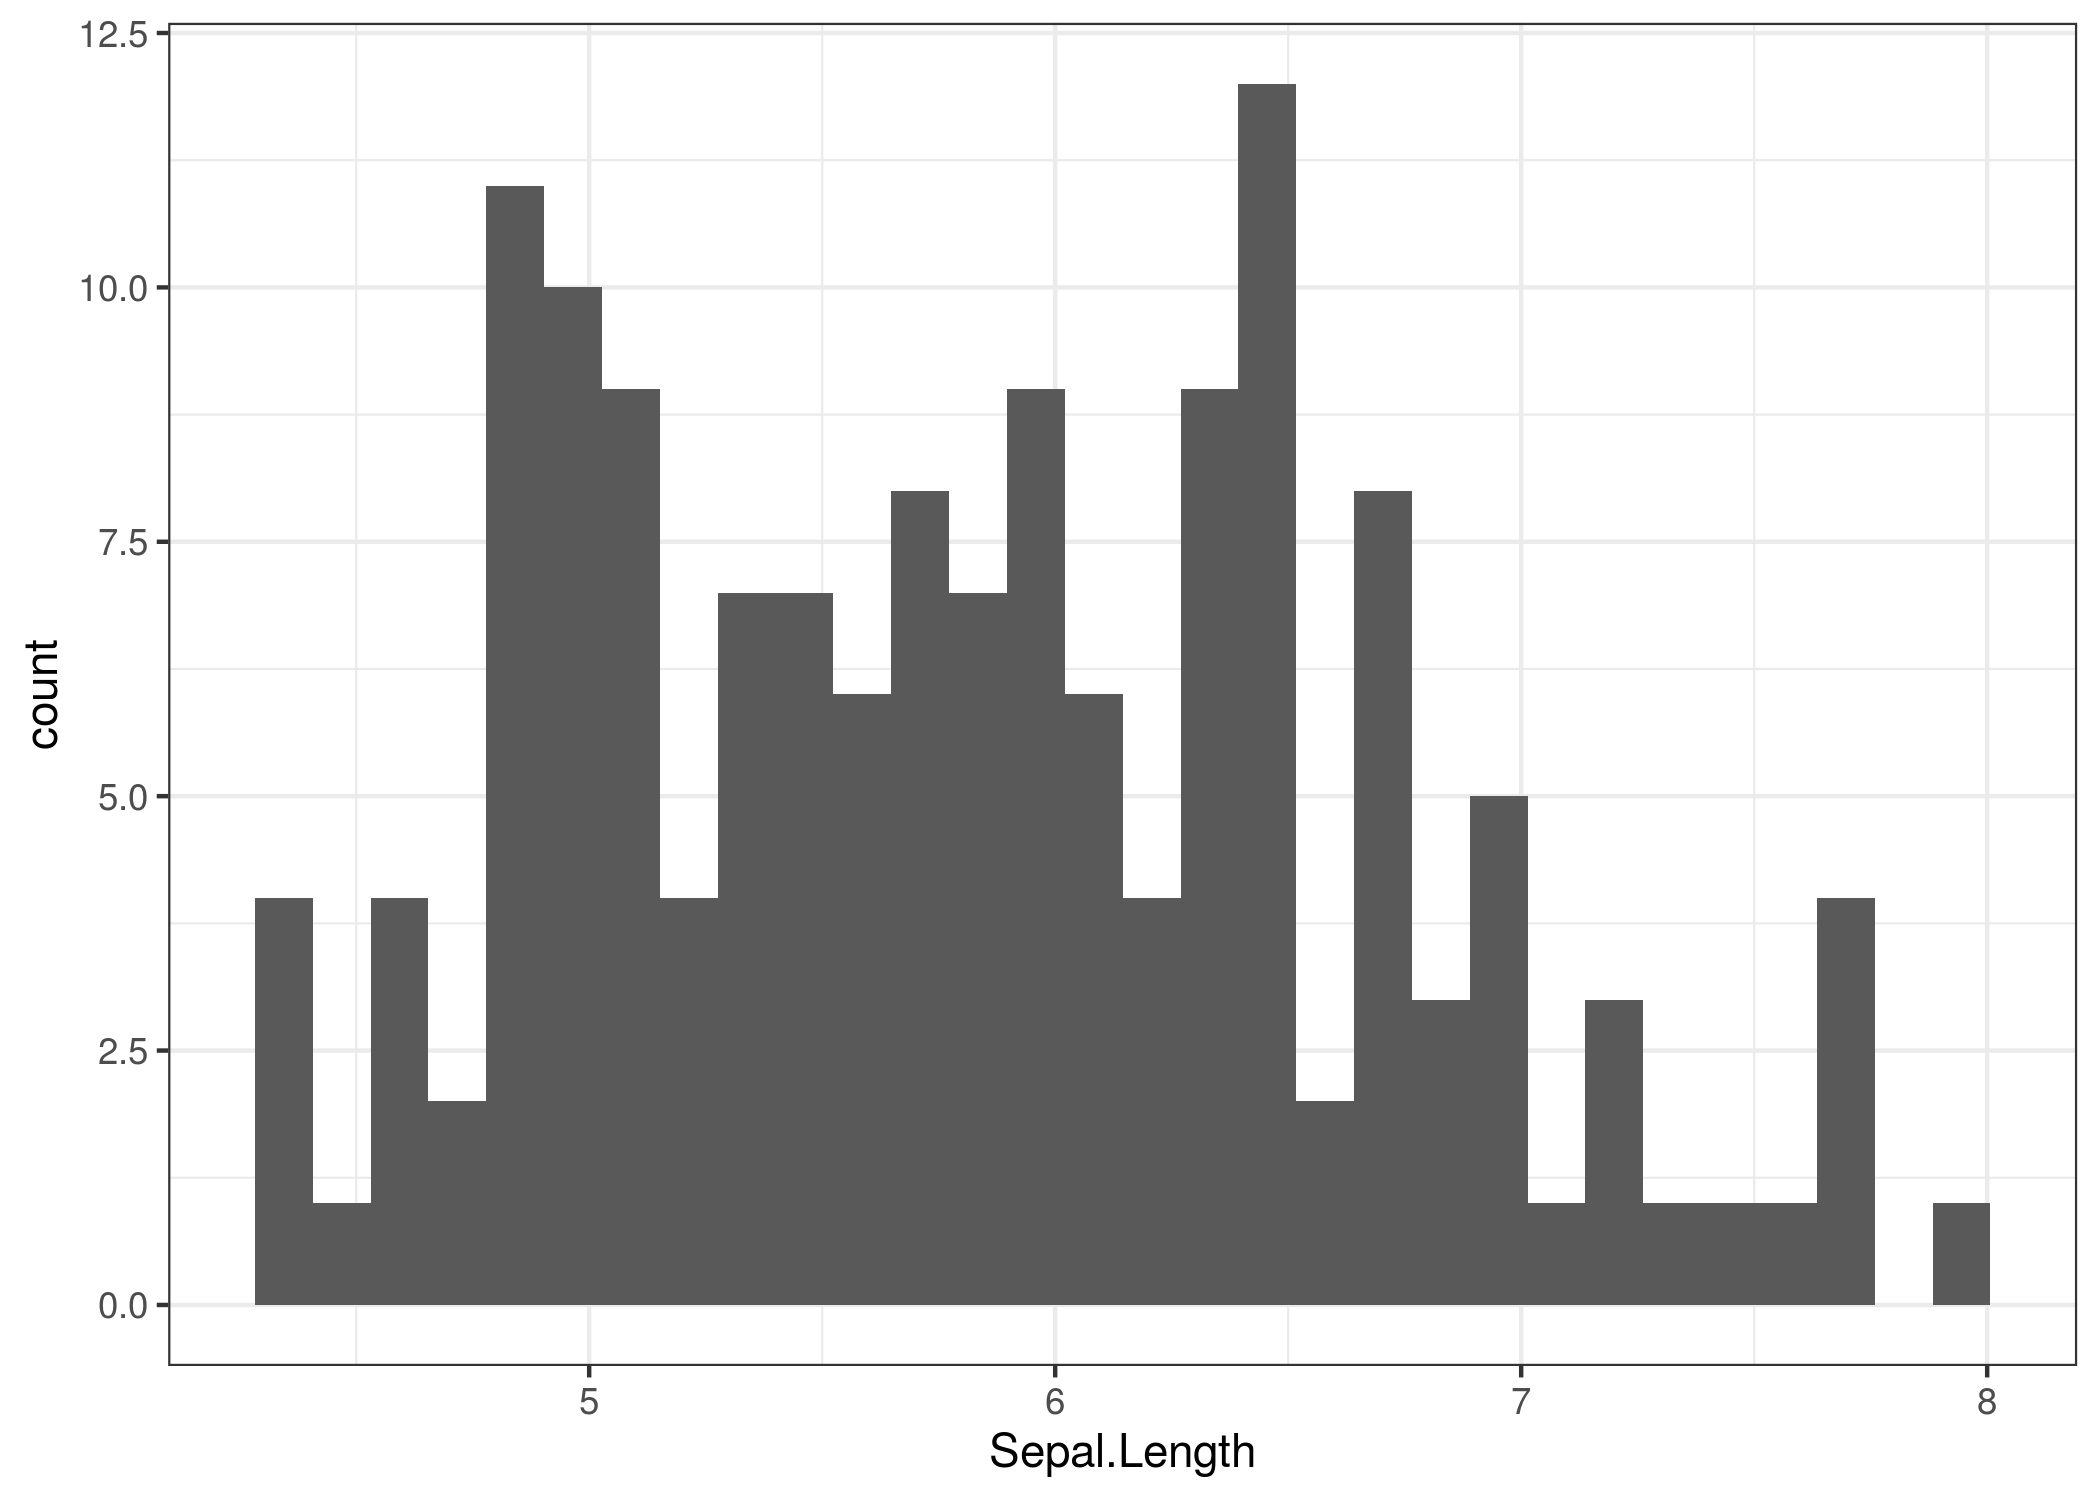
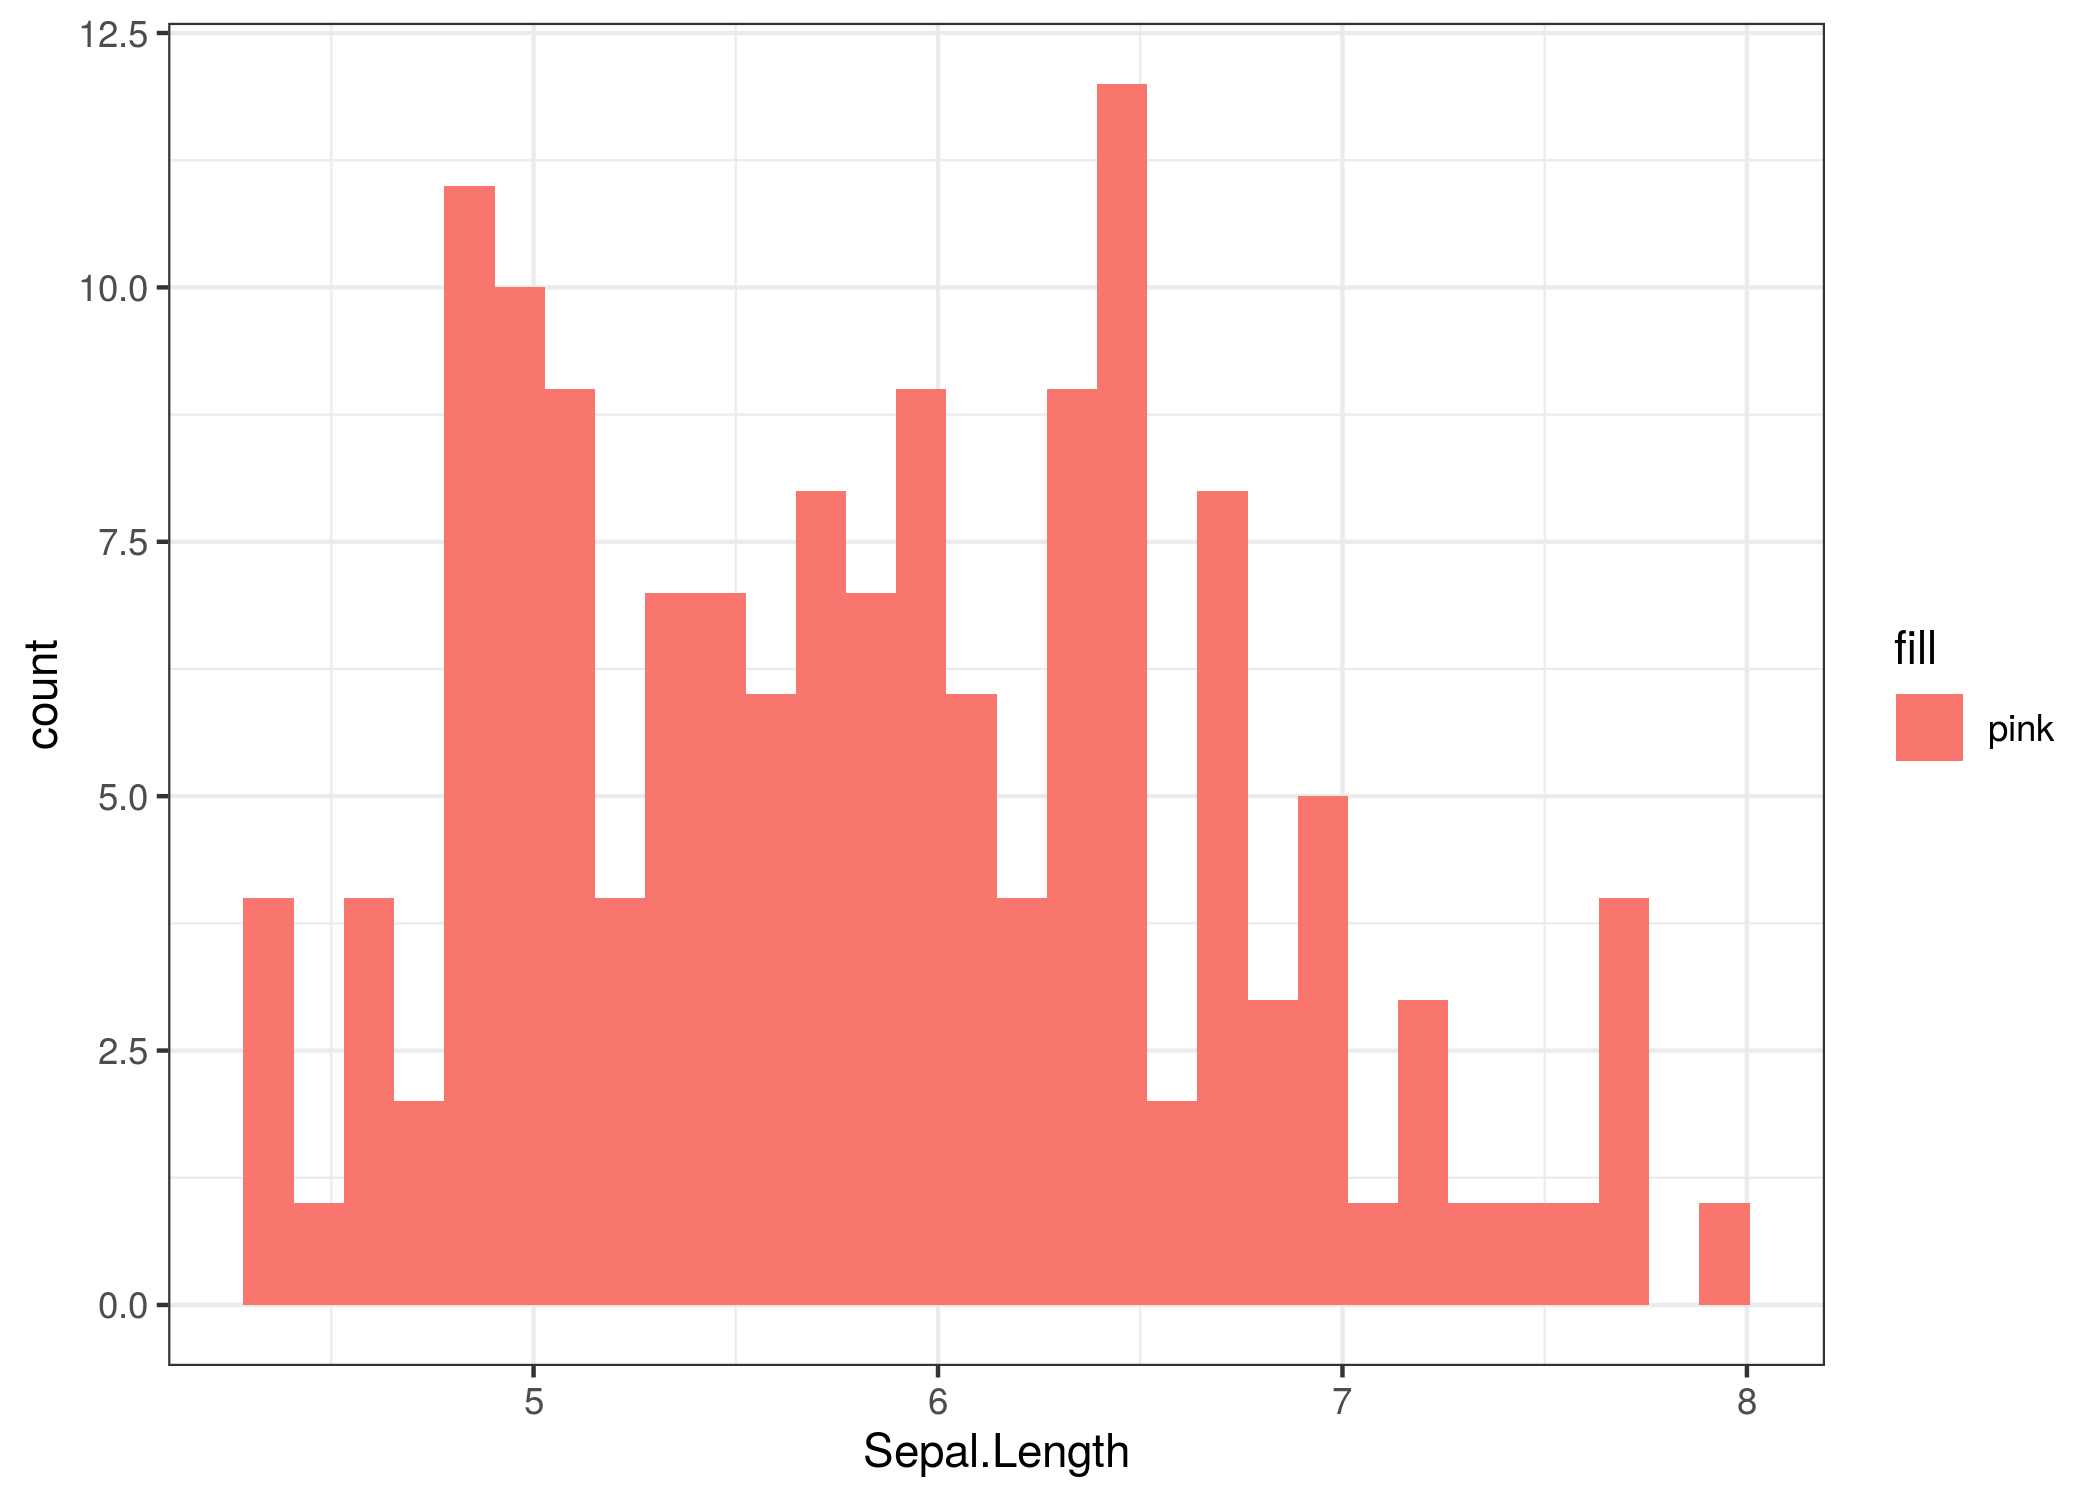
changed the color of the histogram to pink

diff --git a/practice_plot_github.html b/practice_plot_github.html
@@ -377,12 +377,12 @@ summary {
 ## 4          4.6         3.1          1.5         0.2  setosa
 ## 5          5.0         3.6          1.4         0.2  setosa
 ## 6          5.4         3.9          1.7         0.4  setosa</code></pre>
-<pre class="r"><code>ggplot(iris,aes(x = Sepal.Length, color = Sepal.Length, fill = Sepal.Width),stat_bin(30)) +
+<pre class="r"><code>ggplot(iris,aes(x = Sepal.Length, color = Sepal.Length, fill = &quot;pink&quot;),stat_bin(30)) +
   geom_histogram() +
   theme_bw() -&gt;practice_iris
 practice_iris</code></pre>
 <pre><code>## `stat_bin()` using `bins = 30`. Pick better value with `binwidth`.</code></pre>
[2 lines of base64/hex data omitted]
 <pre class="r"><code>ggsave(&quot;practice_plot.png&quot;,practice_iris)</code></pre>
 <pre><code>## Saving 7 x 5 in image
 ## `stat_bin()` using `bins = 30`. Pick better value with `binwidth`.</code></pre>
